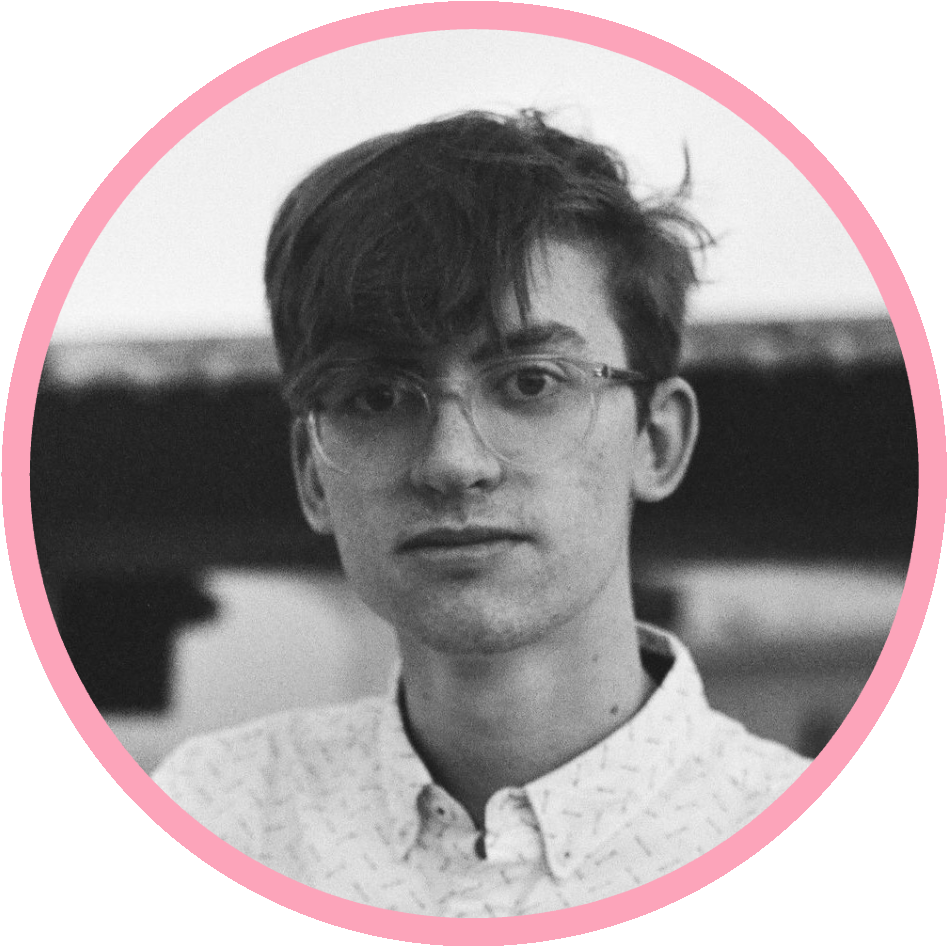
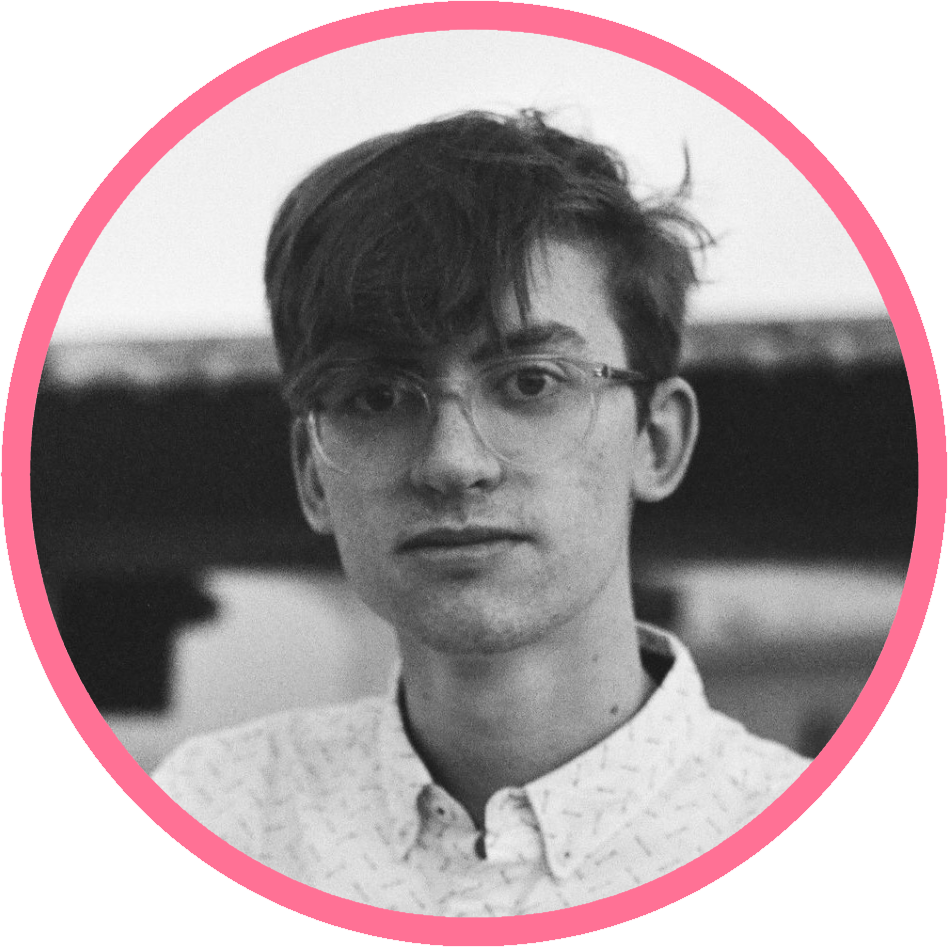
more accessible pink

Changed region(s): [[0.0, 0.0, 1.0, 1.0]]

diff --git a/assets/main.scss b/assets/main.scss
@@ -1,9 +1,8 @@
 ---
-# Only the main Sass file needs front matter (the dashes are enough)
 ---
 
 @import "minima";
 
-a { color: #fca4ba; text-decoration: none; }
+a { color: #ff7195; text-decoration: none; }
 
-a:visited { color: hsl(345, 94%, 82%); }
+a:visited { color: #ff7195); }

diff --git a/projects.md b/projects.md
@@ -10,7 +10,7 @@ Some of projects are big, some are small. Some are good, some are bad. All of th
 
 **\#** My presentation on [algorithmic ethnography](https://spark.adobe.com/page/cRH1UENjuWLAS/) represents the most public-facing example of my advocacy for new and rigirous forms of online investigation and ethnography in both journalism and anthropology. While this method of inquiry is being fleshed out in forthcoming papers, the linked presentation gives a simple, stratighforward overview of the merits of algorthimically-sensitive cyberethnographic investigations.
 
-**\#** *[Mother of 1000s](https://mother1000s.peterforberg.com)* was a simple HTML game run as part of a larger ARG. The (now-archived) game presented players with a small [kalanchoe daigremontiana](https://en.wikipedia.org/wiki/Kalanchoe_daigremontiana) to take care of using four basic commands: snip, water, light, ignore. As the world outside the plant's window changed, players had to choose between these limited options to address issues beyond the scope of plant care. As a collectively played game, players were given a timeframe in which to make a decision, and by clicking their desired command, each individual player "voted" for the final outcome. The game's narrative addresses the limitations imposed on individuals to effect real change in global environmental issues.
+**\#** *[Mother of 1000s](https://mother1000s.peterforberg.com)* was an HTML game run as part of a larger ARG. The (now-archived) game presented players with a small [kalanchoe daigremontiana](https://en.wikipedia.org/wiki/Kalanchoe_daigremontiana) to take care of using four basic commands: snip, water, light, ignore. As the world outside the plant's window changed, players had to choose between these limited options to address issues beyond the scope of plant care. As a collectively played game, players were given a timeframe in which to make a decision, and by clicking their desired command, each individual player "voted" for the final outcome. The game's narrative addresses the limitations imposed on individuals to effect real change in global environmental issues.
 
 **\#** *[Eco-clicker](https://eco-clicker.peterforberg.com)* is a simple Javascript game designed in a day. Unlike most clicker games, which incentivize resource maximimzation and furious clicking, *Eco-clicker* puts limits on the user's capacity for automation, and it attempts to quantify the unintended side effects of a economic approach to environmental resource management.
 
